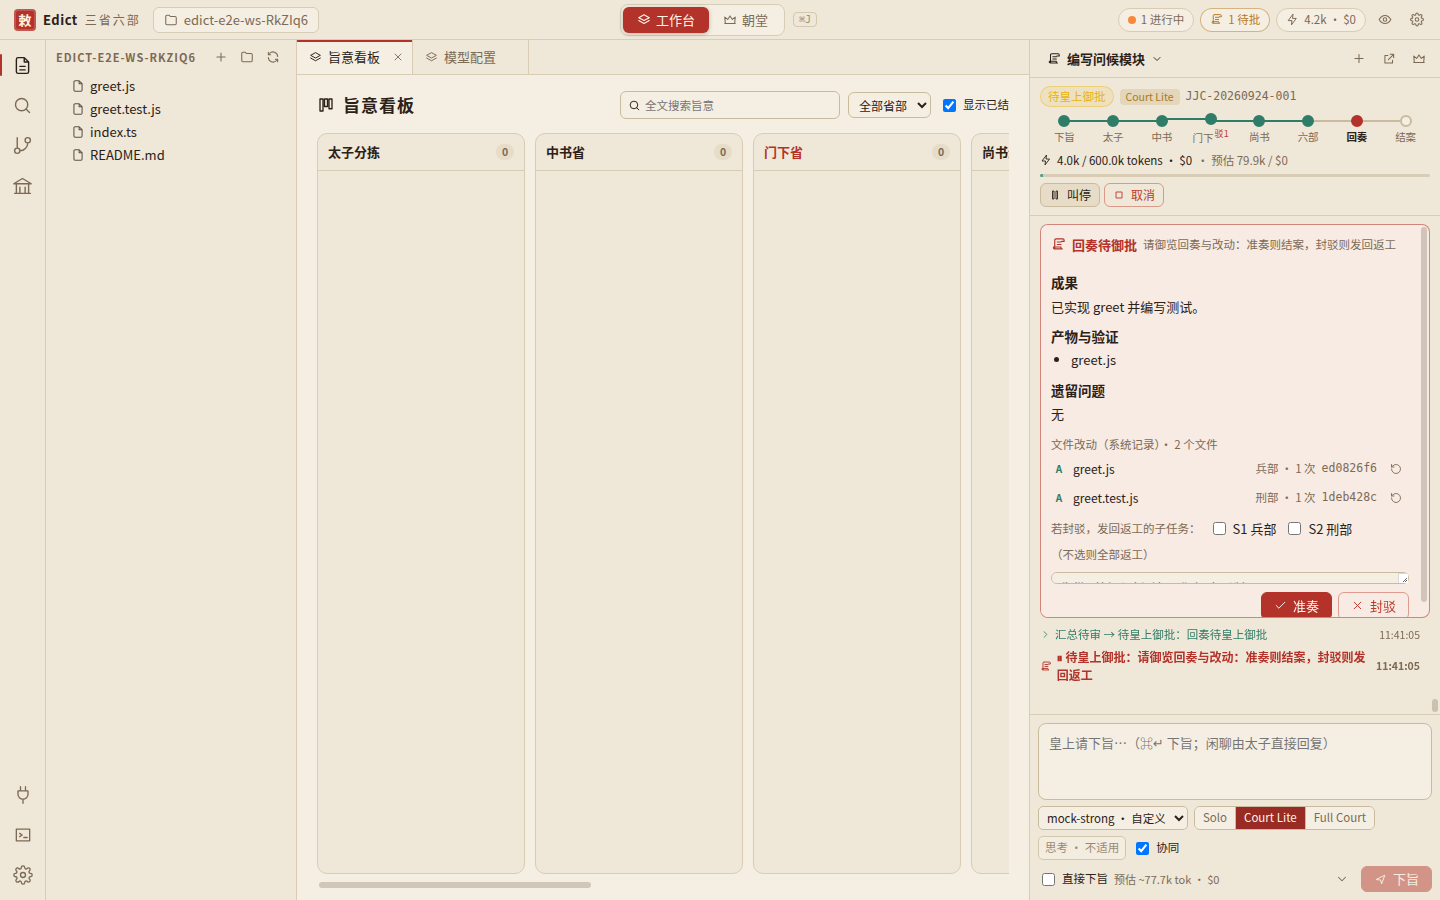
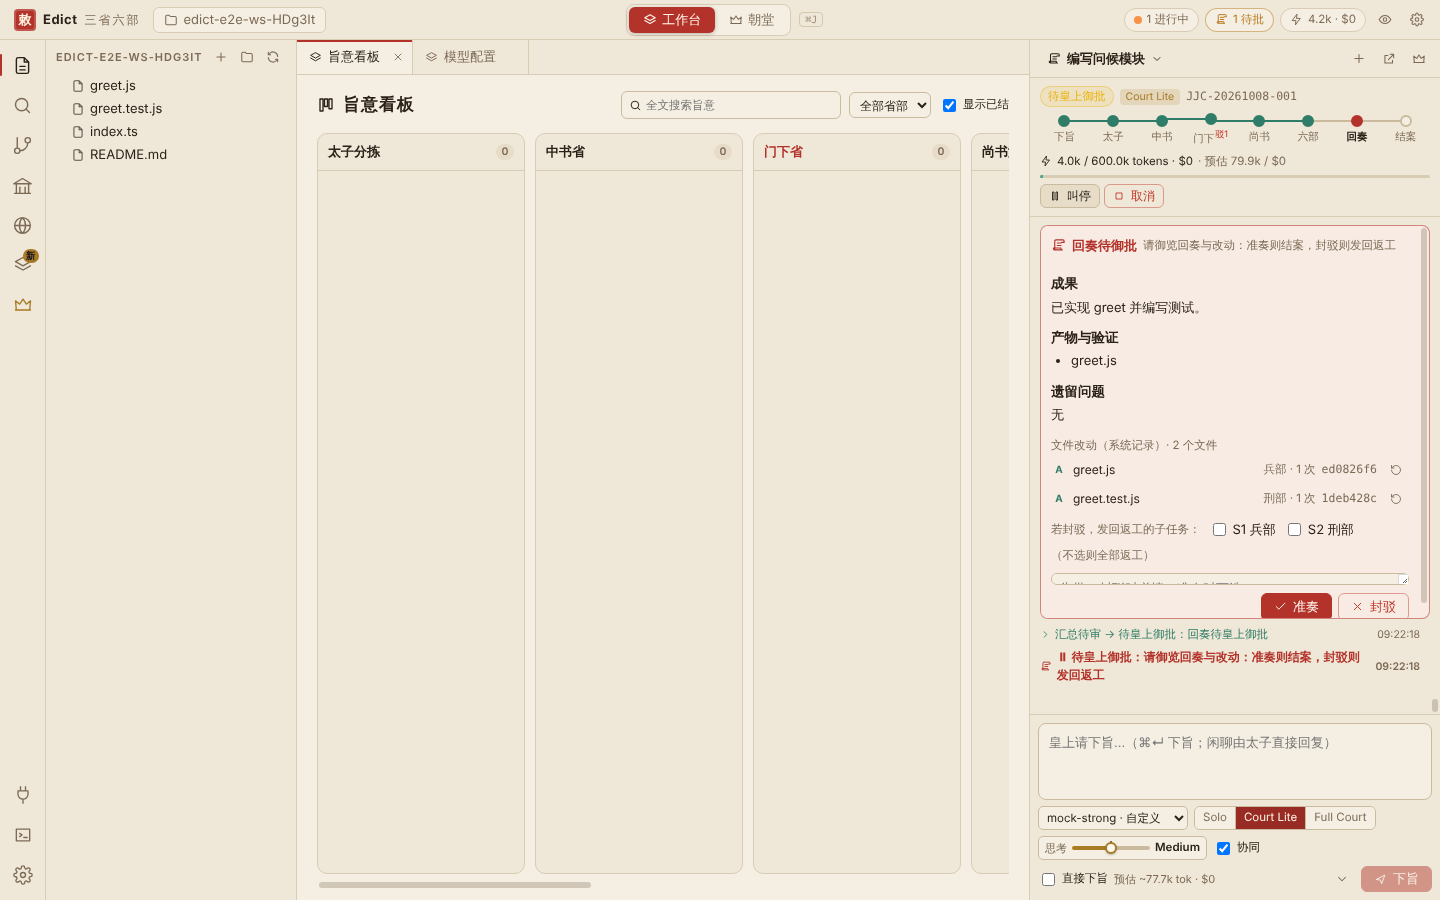
docs: fresh workbench and court screenshots; one-line caption
Claude-Session: https://claude.ai/code/session_01CBHWHDruHYK7LKqazDLVzi

diff --git a/README.zh-CN.md b/README.zh-CN.md
@@ -17,10 +17,8 @@
 | 工作台（默认） | 朝堂（像素 · 唐） |
 |---|---|
 | ![工作台](docs/screenshots/03-workbench-final-gate.png) | ![太和殿](docs/screenshots/08-court-taihe-presenter.png) |
-| 下旨输入框（⌘L 隐藏/显示）· 模型 / 三档 / 多 Agent 开关 · 实时活动流 · 准奏/封驳 · Editor | 皇上端坐龙椅；官员小人的动作 = Agent 实时状态；点击小人查看工作并朱批；奏折批阅浮层 |
 
-- 两种模式只是**同一份运行时状态**（主进程）的两种投影：任务、审批、结果、审计完全一致、实时双向同步。
-- 在朝堂里准奏，工作台立即结案；在工作台叫停，朝堂里的官员立即停笔。
+两种模式显示的是同一份实时状态：在朝堂里准奏，工作台立即结案；在工作台叫停，朝堂里的官员立即停笔。
 
 ## 协同三档
 

diff --git a/README.md b/README.md
@@ -24,9 +24,8 @@ Emperor issues an edict → Crown Prince triages (small talk is answered directl
 | Workbench (default) | Court (pixel art) |
 |---|---|
 | ![Workbench](docs/screenshots/03-workbench-final-gate.png) | ![Hall of Supreme Harmony](docs/screenshots/08-court-taihe-presenter.png) |
-| Edict box (⌘L to hide/show) · model / tier / multi-agent switch · live activity stream · approve / reject · editor | You sit on the throne; each official's animation is the agent's real state; click an official to see their work and leave a vermilion note; memorial review overlay |
 
-Both modes are projections of the same main-process state: tasks, approvals, results and audit are identical and sync in both directions.
+Both modes show the same live state: approve in the court and the workbench closes the case, and the other way round.
 
 ## Three collaboration tiers
 
